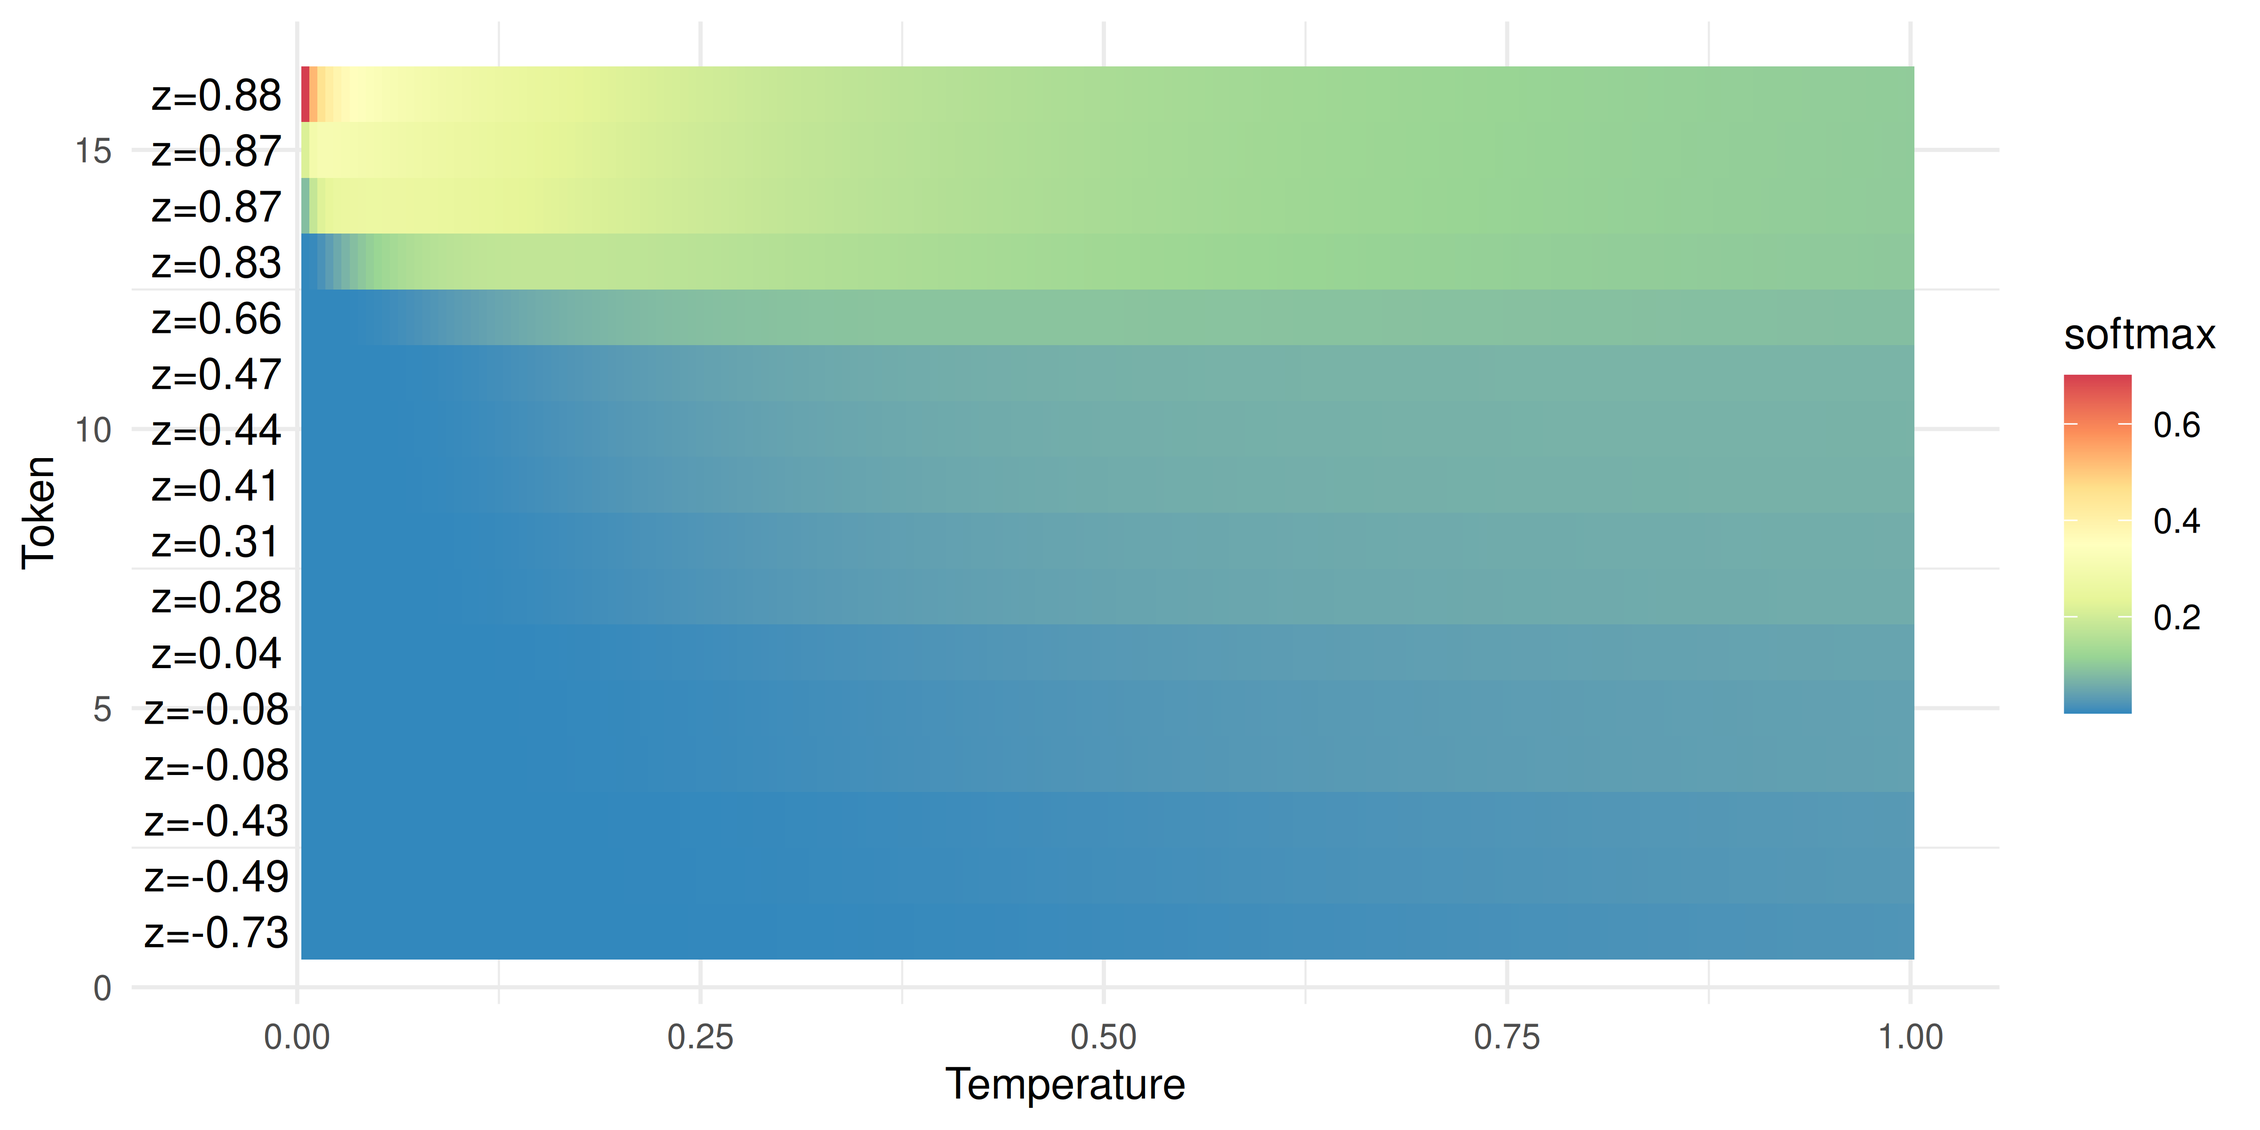
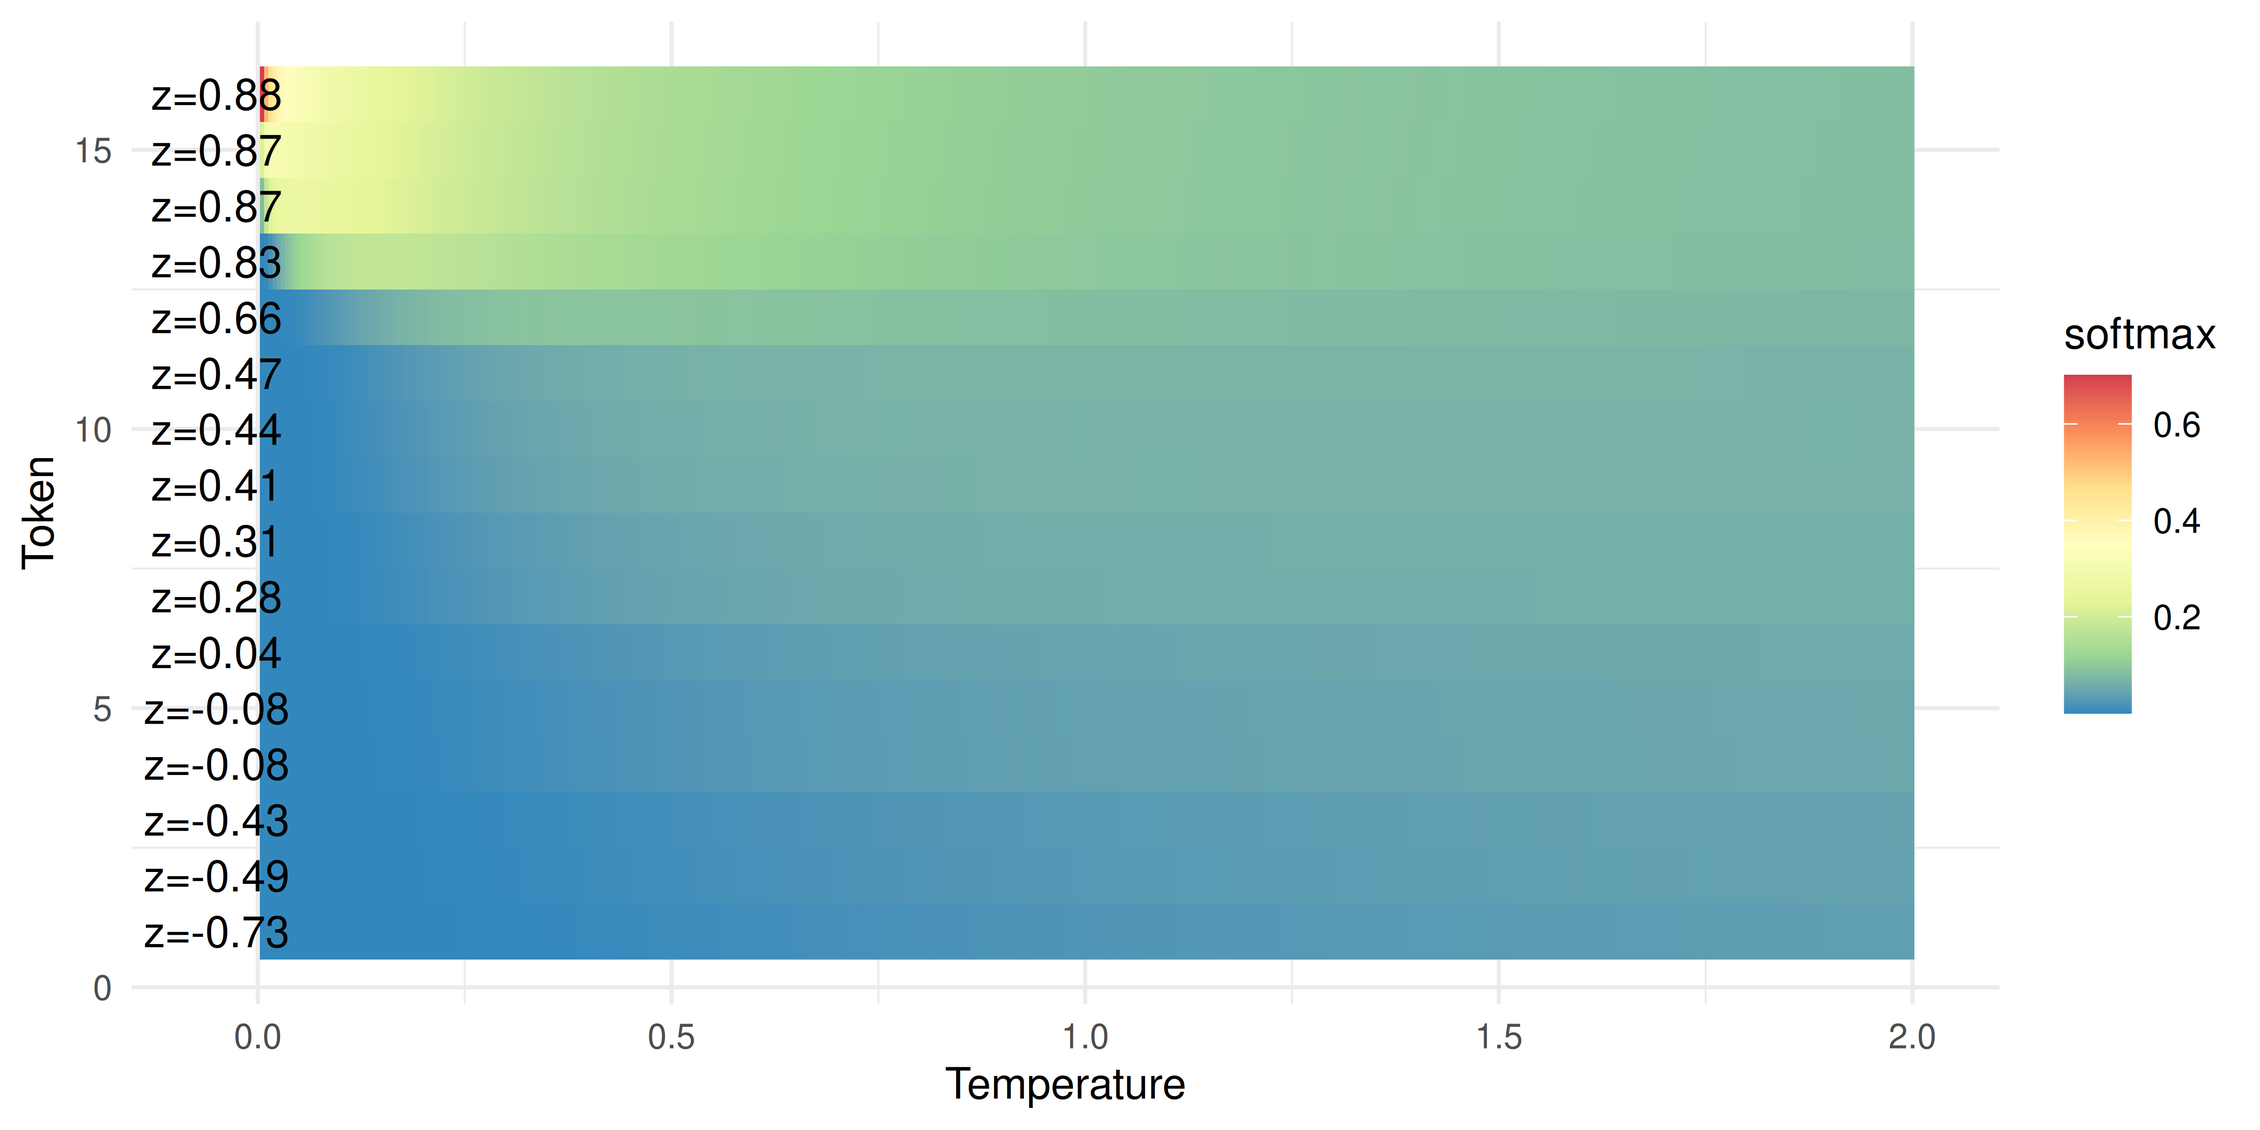
implemented review

diff --git a/docs/content/embeddings.html b/docs/content/embeddings.html
@@ -328,7 +328,7 @@ Embedding-based agent-systems<br>
 <figure class="quarto-float quarto-float-fig figure">
 <div aria-describedby="fig-cosineSimilarity-caption-0ceaefa1-69ba-4598-a22c-09a6ac19f8ca">
 <div class="cell-output-display">
-<div id="fig-cosineSimilarity-1" class="quarto-float quarto-figure quarto-figure-center anchored" alt="Illustration of &quot;semantic embeddings&quot; of different word. The words &quot;good&quot;, &quot;nice&quot; and &quot;orange&quot; are all mapped to a vector space." data-fig-align="center">
+<div id="fig-cosineSimilarity-1" class="quarto-float quarto-figure quarto-figure-center anchored" data-fig-align="center" alt="Illustration of &quot;semantic embeddings&quot; of different word. The words &quot;good&quot;, &quot;nice&quot; and &quot;orange&quot; are all mapped to a vector space.">
 <figure class="quarto-float quarto-subfloat-fig figure">
 <div aria-describedby="fig-cosineSimilarity-1-caption-0ceaefa1-69ba-4598-a22c-09a6ac19f8ca">
 <img src="embeddings_files/figure-html/fig-cosineSimilarity-1.png" class="img-fluid quarto-figure quarto-figure-center figure-img" data-ref-parent="fig-cosineSimilarity" alt="Illustration of &quot;semantic embeddings&quot; of different word. The words &quot;good&quot;, &quot;nice&quot; and &quot;orange&quot; are all mapped to a vector space." width="768">
@@ -340,7 +340,7 @@ Embedding-based agent-systems<br>
 </div>
 </div>
 <div class="cell-output-display">
-<div id="fig-cosineSimilarity-2" class="quarto-float quarto-figure quarto-figure-center anchored" alt="Illustration of similarities between these words. 4 common similarity concepts seen in semantic retrieval: cosine, euclidean, dot product and manhattan." data-fig-align="center">
+<div id="fig-cosineSimilarity-2" class="quarto-float quarto-figure quarto-figure-center anchored" data-fig-align="center" alt="Illustration of similarities between these words. 4 common similarity concepts seen in semantic retrieval: cosine, euclidean, dot product and manhattan.">
 <figure class="quarto-float quarto-subfloat-fig figure">
 <div aria-describedby="fig-cosineSimilarity-2-caption-0ceaefa1-69ba-4598-a22c-09a6ac19f8ca">
 <img src="embeddings_files/figure-html/fig-cosineSimilarity-2.png" class="img-fluid quarto-figure quarto-figure-center figure-img" data-ref-parent="fig-cosineSimilarity" alt="Illustration of similarities between these words. 4 common similarity concepts seen in semantic retrieval: cosine, euclidean, dot product and manhattan." width="768">
@@ -358,7 +358,7 @@ Fig&nbsp;5.1: Illustration of common similarity metrics in semantic search.
 </figure>
 </div>
 </div>
-<p>As always, there is not the one solution to all problems though and the applicability of cosine similarity might not be optimal for you usecase <span class="citation" data-cites="steckCosineSimilarityEmbeddingsReally2024 goyalComparativeAnalysisDifferent2022">(<a href="#ref-goyalComparativeAnalysisDifferent2022" role="doc-biblioref">Goyal &amp; Sharma, 2022</a>; <a href="#ref-steckCosineSimilarityEmbeddingsReally2024" role="doc-biblioref">Steck et al., 2024</a>)</span>.</p>
+<p>As always, there is not the one solution to all problems though and the applicability of cosine similarity might not be optimal for your usecase <span class="citation" data-cites="steckCosineSimilarityEmbeddingsReally2024 goyalComparativeAnalysisDifferent2022">(<a href="#ref-goyalComparativeAnalysisDifferent2022" role="doc-biblioref">Goyal &amp; Sharma, 2022</a>; <a href="#ref-steckCosineSimilarityEmbeddingsReally2024" role="doc-biblioref">Steck et al., 2024</a>)</span>.</p>
 <p>Though one could use any kind of (L)LM to calculate embeddings for this case<a href="#fn1" class="footnote-ref" id="fnref1" role="doc-noteref"><sup>1</sup></a>, it is advisable to use models specifically trained for this purpose. <span class="citation" data-cites="reimersSentenceBERTSentenceEmbeddings2019a">Reimers &amp; Gurevych (<a href="#ref-reimersSentenceBERTSentenceEmbeddings2019a" role="doc-biblioref">2019</a>)</span> proposed <em>Sentence-BERT</em> which is a simple but effective approach to calculate semantic embeddings. SBERT and similar approaches are based on a (L)LM that was trained to predict missing words as we discussed before, resulting in a general representation of natural language. In the case of the original paper, they used (among others) the BERT model <span class="citation" data-cites="devlinBERTPretrainingDeep2019a">Devlin et al. (<a href="#ref-devlinBERTPretrainingDeep2019a" role="doc-biblioref">2019</a>)</span> mentioned before.</p>
 <div class="no-row-height column-margin column-container"><div id="fn1"><p><sup>1</sup>&nbsp;And there are approaches to use LLMs to solve this taks i.e., <span class="citation" data-cites="jiangScalingSentenceEmbeddings2023a">Jiang et al. (<a href="#ref-jiangScalingSentenceEmbeddings2023a" role="doc-biblioref">2023</a>)</span></p></div><div id="fn2"><p><sup>2</sup>&nbsp;The original BERT-paper did this by adding a pooling layer before the task-header that extracted and weighed the context-dependend embedding of the first token. The SBERT paper tried different pooling-strategies and used a mean over each embedding dimension of the sequence.</p></div></div><p>The authors then use this to embed a pair of sentences into one embedding-vector each<a href="#fn2" class="footnote-ref" id="fnref2" role="doc-noteref"><sup>2</sup></a>, for which some measure of semantic similarity is known. An example for a dataset containing such sentences is the <a href="https://aclanthology.org/D15-1075/">Stanford Natural Language Inferenc(SNLI) corpus <span class="citation" data-cites="bowmanLargeAnnotatedCorpus2015">Bowman et al. (<span>2015</span>)</span></a> which labels 550k pairs of sentences as either <em>entailment</em>, <em>contradiction</em> or <em>neutral</em>. <span class="citation" data-cites="reimersSentenceBERTSentenceEmbeddings2019a">Reimers &amp; Gurevych (<a href="#ref-reimersSentenceBERTSentenceEmbeddings2019a" role="doc-biblioref">2019</a>)</span> then concated the both senteces embeddings and their element-wise difference into a single vector which is fed to a multiclass classifier, indicating in which category the sentences relationship falls. At inference, this classification head was removed and replaced as the cosine similarity as discussed above. The resulting network is highly effective in calculating semantic similarities between sentences.</p>
 <p>A look at the <a href="https://www.sbert.net/docs/sentence_transformer/loss_overview.html">sbert-website</a> shows that the module has somewhat grown and now does supply a series of learning paradigms that can be used to efficiently tune a model for your specific usecase<a href="#fn3" class="footnote-ref" id="fnref3" role="doc-noteref"><sup>3</sup></a>. As the library has grown, so has the sheer amount of pretrained embedding-models in some way based on this architecture that are hosted on huggingface. The <a href="https://huggingface.co/spaces/mteb/leaderboard">MTEB-Leaderboard</a> is a good strat to search for a model for your application. One utilization of this model-family, which has already been implicitly used in this script, is their very efficient ability to semantically search for documents. If a model is very good at finding similar sentences, it can also be very good to find documents that are very similar to a question.</p>
@@ -402,7 +402,7 @@ Fig&nbsp;5.2
 <p>A vector database is a database that stores vectors and allows for efficient similarity searches. As can be seen in the <a href="https://db-engines.com/en/ranking">db-engines ranking</a> there has been a surge of interest in this area recently, with many new players entering the market. From the plethora of vector databases, these three are examples that virtue a honorary mention:</p>
 <ol type="1">
 <li><p><a href="https://www.trychroma.com/">Chroma</a> - a in-memory database for small applications that is especially easy to get to run.</p></li>
-<li><p><a href="https://www.elastic.co/guide/en/elasticsearch/reference/current/bring-your-own-vectors.html">Elasticsearch</a> - a well established database that is the go to system for open source search engines and has recently (and kind of naturally) also branche out into vector databases.</p></li>
+<li><p><a href="https://www.elastic.co/guide/en/elasticsearch/reference/current/bring-your-own-vectors.html">Elasticsearch</a> - a well established database that is the go to system for open source search engines and has recently (and kind of naturally) also branched out into vector databases.</p></li>
 <li><p><a href="https://qdrant.tech/">Qdrant</a> - the product of a Berlin-based startup that focusses on stability and scalability. It can also run in memory, but does natively support hard drive storage.</p></li>
 </ol>
 <p>The best way to use qdrant is to use <a href="https://qdrant.tech/documentation/quickstart/">docker</a> to run it and the python sdk to interact with it.</p>

diff --git a/docs/content/agent_basics.html b/docs/content/agent_basics.html
@@ -323,7 +323,7 @@ Agent basics<br>
 </section>
 <section id="planning" class="level3">
 <h3 class="anchored" data-anchor-id="planning">Planning</h3>
-<p>Planning is the process of breaking down a complex task into subtasks and deciding which tools to use for each subtask. The planning module is usually also an LLM, it can be one fine-tuned to this specific task or receive a specialized prompt. It uses techniques like chain-of-thought (CoT) prompting to generate a plan of action <span class="citation" data-cites="weiChainThoughtPromptingElicits2023">(<a href="#ref-weiChainThoughtPromptingElicits2023" role="doc-biblioref"><strong>weiChainThoughtPromptingElicits2023?</strong></a>)</span>. CoT prompting is a technique that encourages the model to explain its reasoning step by step, making it easier for us to understand and evaluate its answers. Other strategies include Tree-of-Thoughts (<span class="citation" data-cites="longLargeLanguageModel2023">Long (<a href="#ref-longLargeLanguageModel2023" role="doc-biblioref">2023</a>)</span>, <span class="citation" data-cites="yaoTreeThoughtsDeliberate2023">Yao, Yu, et al. (<a href="#ref-yaoTreeThoughtsDeliberate2023" role="doc-biblioref">2023</a>)</span>), ReAct <span class="citation" data-cites="yaoReActSynergizingReasoning2023">(<a href="#ref-yaoReActSynergizingReasoning2023" role="doc-biblioref">Yao, Zhao, et al., 2023</a>)</span> and Reflexion <span class="citation" data-cites="shinnReflexionLanguageAgents2023">(<a href="#ref-shinnReflexionLanguageAgents2023" role="doc-biblioref">Shinn et al., 2023</a>)</span>. <!-- We will discuss these in more detail later. --></p>
+<p>Planning is the process of breaking down a complex task into subtasks and deciding which tools to use for each subtask. The planning module is usually also an LLM, it can be one fine-tuned to this specific task or receive a specialized prompt. It uses techniques like chain-of-thought (CoT) prompting to generate a plan of action <span class="citation" data-cites="weiChainThoughtPromptingElicits2023b">(<a href="#ref-weiChainThoughtPromptingElicits2023b" role="doc-biblioref">Wei et al., 2023</a>)</span>. CoT prompting is a technique that encourages the model to explain its reasoning step by step, making it easier for us to understand and evaluate its answers. Other strategies include Tree-of-Thoughts (<span class="citation" data-cites="longLargeLanguageModel2023">Long (<a href="#ref-longLargeLanguageModel2023" role="doc-biblioref">2023</a>)</span>, <span class="citation" data-cites="yaoTreeThoughtsDeliberate2023">Yao, Yu, et al. (<a href="#ref-yaoTreeThoughtsDeliberate2023" role="doc-biblioref">2023</a>)</span>), ReAct <span class="citation" data-cites="yaoReActSynergizingReasoning2023">(<a href="#ref-yaoReActSynergizingReasoning2023" role="doc-biblioref">Yao, Zhao, et al., 2023</a>)</span> and Reflexion <span class="citation" data-cites="shinnReflexionLanguageAgents2023">(<a href="#ref-shinnReflexionLanguageAgents2023" role="doc-biblioref">Shinn et al., 2023</a>)</span>. <!-- We will discuss these in more detail later. --></p>
 </section>
 <section id="tools" class="level3">
 <h3 class="anchored" data-anchor-id="tools">Tools</h3>
@@ -394,6 +394,9 @@ Long, J. (2023). <em>Large <span class="nocase">Language Model Guided Tree-of-Th
 </div>
 <div id="ref-shinnReflexionLanguageAgents2023" class="csl-entry" role="listitem">
 Shinn, N., Cassano, F., Berman, E., Gopinath, A., Narasimhan, K., &amp; Yao, S. (2023). <em>Reflexion: <span>Language Agents</span> with <span>Verbal Reinforcement Learning</span></em> (arXiv:2303.11366). arXiv. <a href="https://doi.org/10.48550/arXiv.2303.11366">https://doi.org/10.48550/arXiv.2303.11366</a>
+</div>
+<div id="ref-weiChainThoughtPromptingElicits2023b" class="csl-entry" role="listitem">
+Wei, J., Wang, X., Schuurmans, D., Bosma, M., Ichter, B., Xia, F., Chi, E., Le, Q., &amp; Zhou, D. (2023). <em>Chain-of-<span>Thought Prompting Elicits Reasoning</span> in <span>Large Language Models</span></em> (arXiv:2201.11903). arXiv. <a href="https://doi.org/10.48550/arXiv.2201.11903">https://doi.org/10.48550/arXiv.2201.11903</a>
 </div>
 <div id="ref-WhatAIAgent2024" class="csl-entry" role="listitem">
 What is an <span>AI</span> agent? (2024). In <em>LangChain Blog</em>. https://blog.langchain.dev/what-is-an-agent/.

diff --git a/docs/content/prompting.html b/docs/content/prompting.html
@@ -449,13 +449,13 @@ Too many labels. Reduce the label count for the task -->
 </div>
 </div>
 <div class="no-row-height column-margin column-container"><div id="fn1"><p><sup>1</sup>&nbsp;Though this nomenclature has fallen a bit out of fashion</p></div></div></section>
-<section id="temperature" class="level2">
+<section id="temperature" class="level2 page-columns page-full">
 <h2 class="anchored" data-anchor-id="temperature">Temperature</h2>
 <p>You might have encountered eerily similar answers from the language model, especially in the last task. Talking of it - why does the model return different answers to the same prompt at all if we do use pretrained-models in the first place? Shouldn’t the utilization of the frozen weight-matrix result in the same answer, every time we run the model with the same input?</p>
 <p>Yes, it should. And it does.</p>
 <p>Remember that a language model trained on language generation as we discussed in the first session ends in a softmax-layer that returns probabilities for each token in the vocabulary. The generation-pipeline does not just use the token with the highest probability though, but samples from this distribution. This means, that even if the input is identical, the output will be different every time you run the model.</p>
-<p>The temperature parameter controls the steepness of the softmax-function and thus the randomness of the sampling process. A higher temperature value results in more random outputs, while a lower temperature value results in more “deterministic” outputs. The temperatur, indicated as a float between 0 and 1, is used to modulate the probabilities of the next token. This is done by adding a <span class="math inline">\(\frac{1}{Temp}\)</span> factor to the model-outputs before applying the softmax.</p>
-<p>This effectively changes the Sofmax-fomula from</p>
+<p>The temperature parameter controls the steepness of the softmax-function and thus the randomness of the sampling process. A higher temperature value results in more random outputs, while a lower temperature value results in more “deterministic” outputs. The temperatur, indicated as a float between 0 and 1<a href="#fn2" class="footnote-ref" id="fnref2" role="doc-noteref"><sup>2</sup></a>, is used to modulate the probabilities of the next token. This is done by adding a <span class="math inline">\(\frac{1}{Temp}\)</span> factor to the model-outputs before applying the softmax.</p>
+<div class="no-row-height column-margin column-container"><div id="fn2"><p><sup>2</sup>&nbsp;Depending on the implementation, temperatures above 1 are also allowed. Temperatures above 1 are resultsing in strange behaviours - see <a href="#fig-temp" class="quarto-xref">Figure&nbsp;<span>3.3</span></a>.</p></div></div><p>This effectively changes the Sofmax-fomula from</p>
 <p><span class="math display">\[
 p_{Token} = \frac{e^{z_{Token}}}{\sum_{i=1}^k e^{z_{i}}}
 \]</span></p>

diff --git a/docs/content/getting_started_with_llms.html b/docs/content/getting_started_with_llms.html
@@ -528,7 +528,7 @@ PE_{(pos, 2i+1)} &amp;=&amp; cos(\frac{pos}{10000^{\frac{2i}{d_{model}}}})
 <p>Where <span class="math inline">\(i\)</span> is the dimension and <span class="math inline">\(pos\)</span> is the position. Those 2 formulas are not the most intuitive, what they do is to add a unique offset to each embedding though, that allows the model to infer and weigh the token’s positions in the matrix on it’s own. <a href="#fig-positional" class="quarto-xref">Figure&nbsp;<span>2.8</span></a> illustrates the pattern this specific combination of sin and cos creates for each sequence-position and embedding-dimension.</p>
 <div class="cell enlarge-onhover" data-layout-align="center">
 <div class="cell-output-display">
-<div id="fig-positional" class="quarto-float quarto-figure quarto-figure-center anchored" alt="A heatmap of the positional encoding for 50 dimensions and 512 embedding-dimensions. The x-axis represents the position and the y-axis represents the dimension. The color represents the value of the encoding." data-fig-align="center">
+<div id="fig-positional" class="quarto-float quarto-figure quarto-figure-center anchored" data-fig-align="center" alt="A heatmap of the positional encoding for 50 dimensions and 512 embedding-dimensions. The x-axis represents the position and the y-axis represents the dimension. The color represents the value of the encoding.">
 <figure class="quarto-float quarto-float-fig figure">
 <div aria-describedby="fig-positional-caption-0ceaefa1-69ba-4598-a22c-09a6ac19f8ca">
 <img src="getting_started_with_llms_files/figure-html/fig-positional-1.png" class="img-fluid quarto-figure quarto-figure-center figure-img" alt="A heatmap of the positional encoding for 50 dimensions and 512 embedding-dimensions. The x-axis represents the position and the y-axis represents the dimension. The color represents the value of the encoding." width="672">

diff --git a/docs/index.html b/docs/index.html
@@ -8,7 +8,7 @@
 
 <meta name="author" content="Max Brede">
 <meta name="author" content="Alwin Klick">
-<meta name="dcterms.date" content="2024-11-17">
+<meta name="dcterms.date" content="2024-11-18">
 
 <title>Generative AI</title>
 <style>
@@ -259,7 +259,7 @@ Introduction<br>
     <div>
     <div class="quarto-title-meta-heading">Published</div>
     <div class="quarto-title-meta-contents">
-      <p class="date">November 17, 2024</p>
+      <p class="date">November 18, 2024</p>
     </div>
   </div>
   
